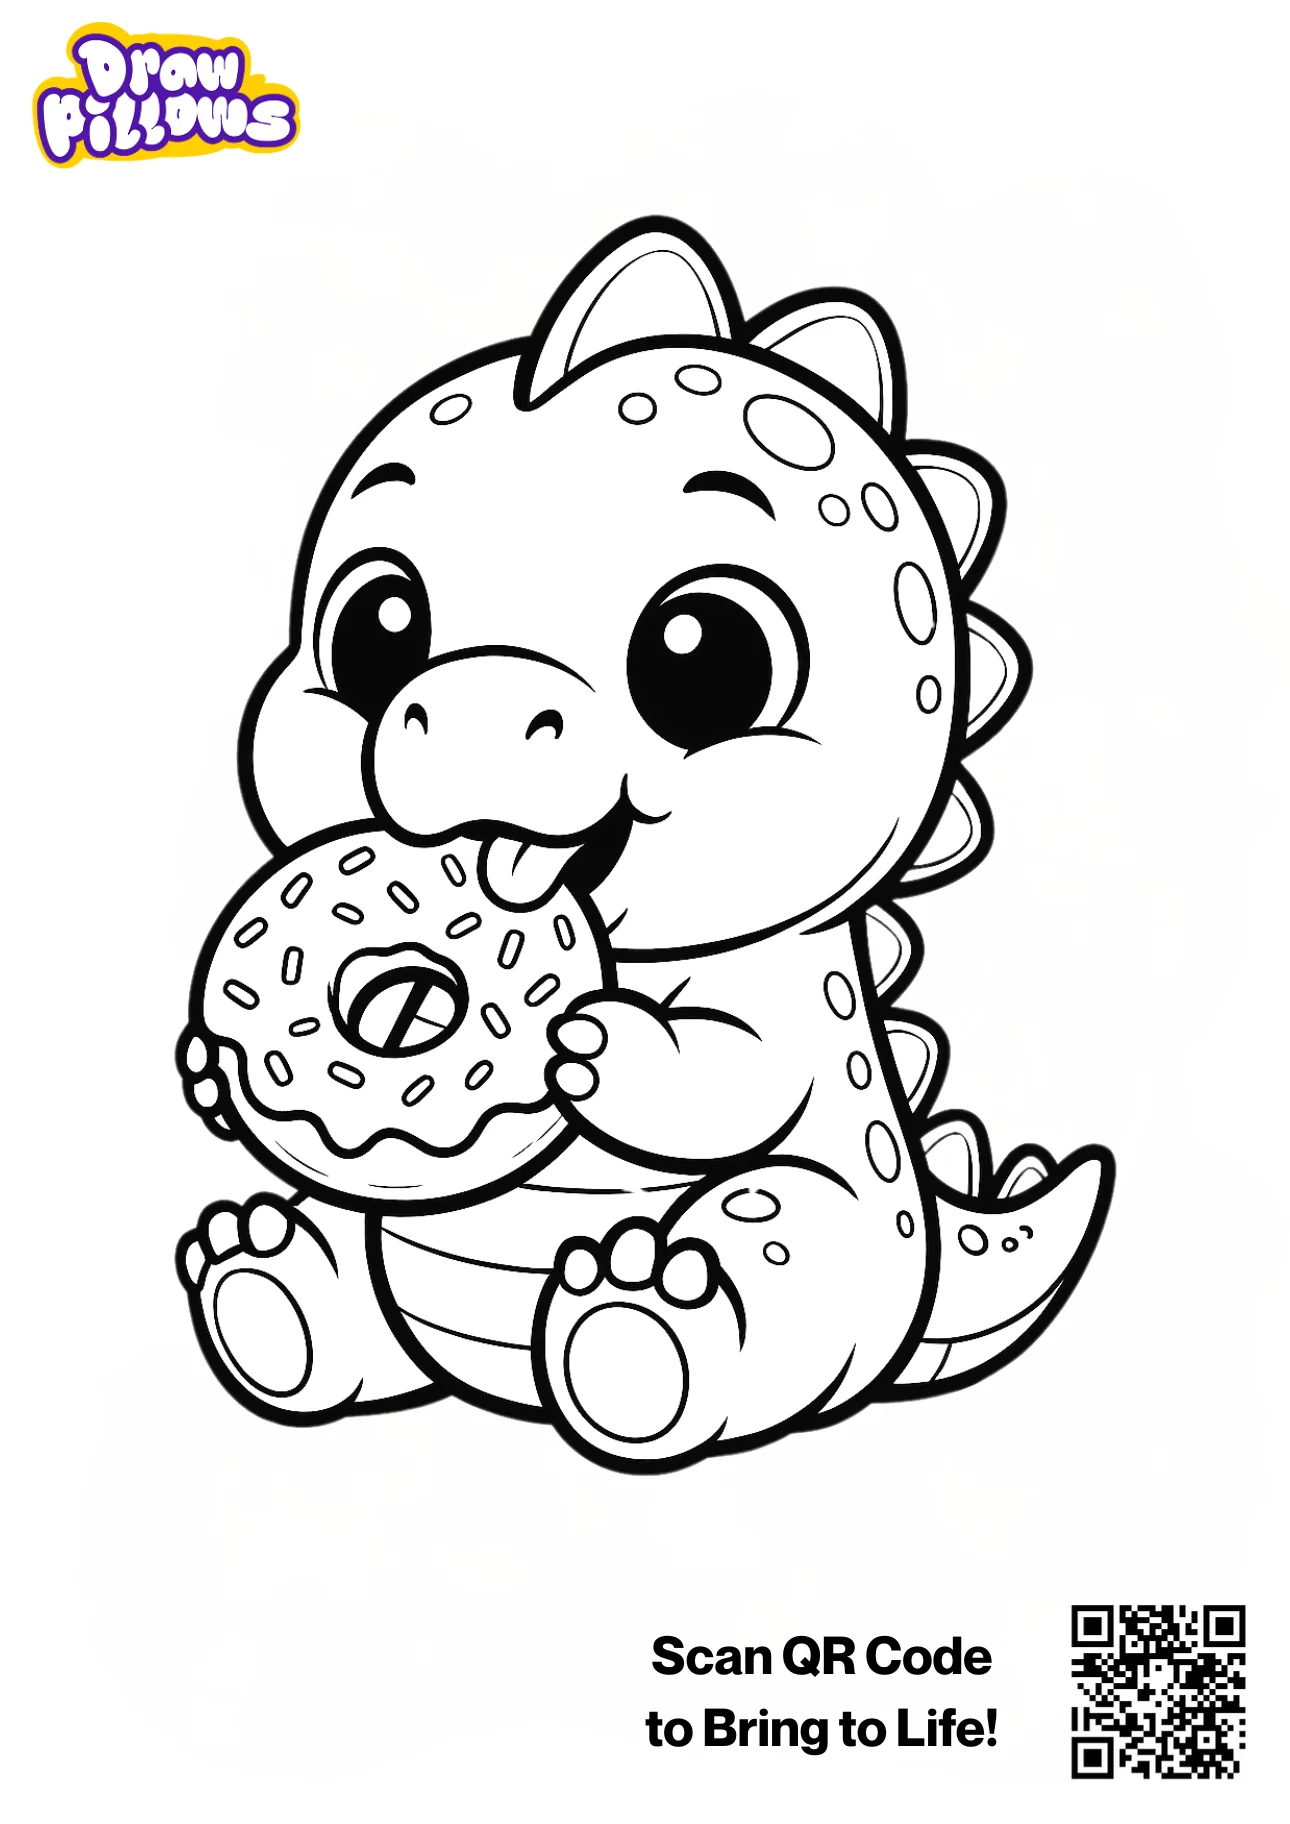
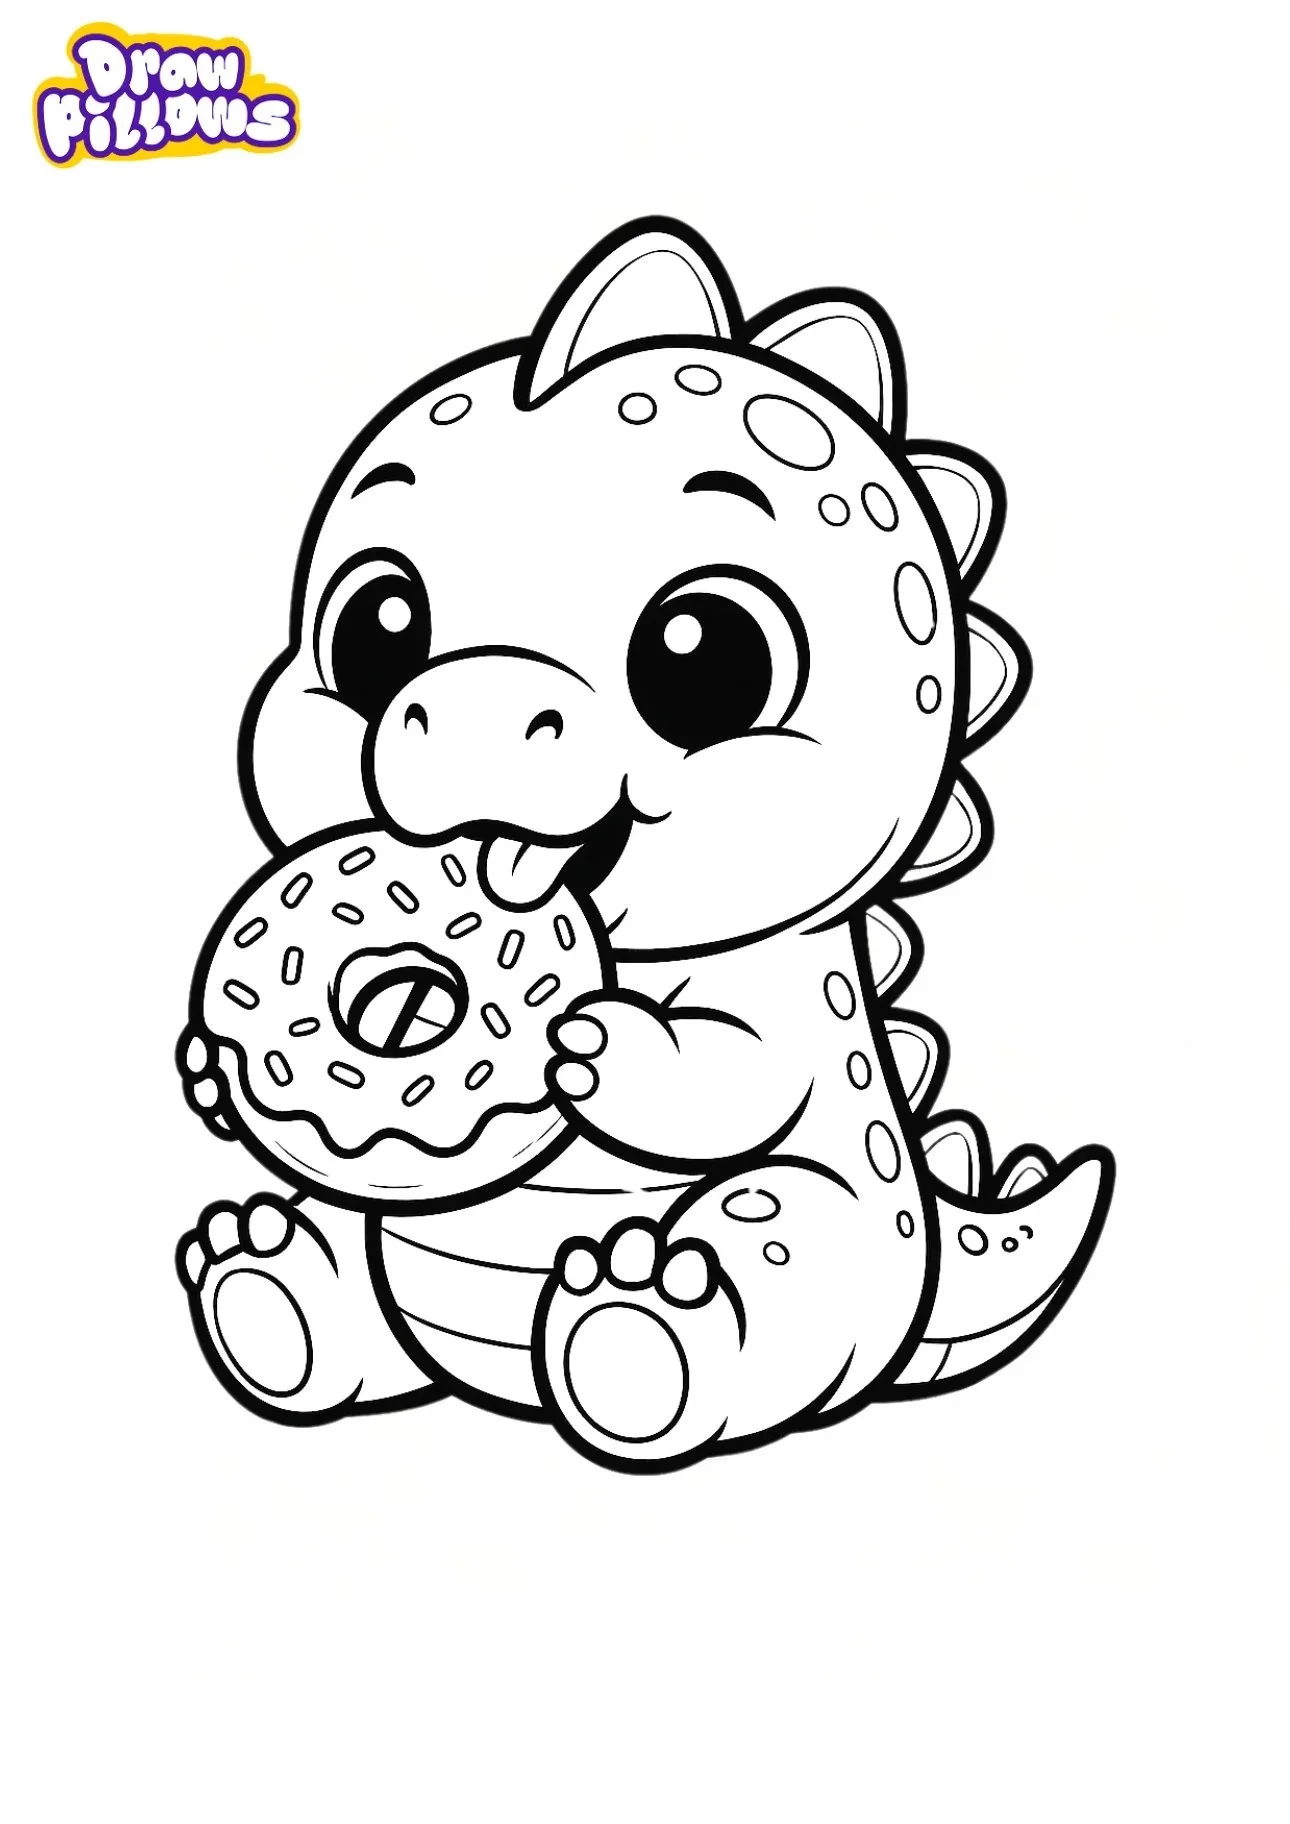
removed QR code from images

Changed region(s): [[0.4961, 0.875, 0.7752, 0.9688], [0.8062, 0.875, 0.9922, 1.0], [0.031, 0.0, 0.2481, 0.0938]]

diff --git a/index.html b/index.html
@@ -32,7 +32,7 @@
                 </ul>
             </nav>
 
-            <div class="logo"><a href="#"><img src="/Assets/images/Free_logo.png" alt=""></a></div>
+            <div class="logo"><a href="#"><img src="/Assets/images/Free_logo.webp" alt=""></a></div>
 
             <div class="search_section">
                 <div class="search-bar">
@@ -59,7 +59,7 @@
                     kids of all ages.</p>
                 <a href="#">View more</a>
             </div>
-            <div class="hero-image"><img src="/Assets/images/hero_img4.png" alt="hero_img" loading="lazy">
+            <div class="hero-image"><img src="/Assets/images/hero_img4.webp" alt="hero_img" loading="lazy">
             </div>
         </div>
 
@@ -162,32 +162,32 @@
         <img src="/Assets/images/turtle.svg" alt="turtle" class="turtle">
         <div class="category_row">
             <div class="category_content">
-                <img src="/Assets/images/heading-icon.png" alt="">
+                <img src="/Assets/images/heading-icon.webp" alt="">
                 <div class="heading">Browse by Categories</div>
                 <p>Lorem ipsum, dolor sit amet consectetur adipisicing elit. Minus, omnis?</p>
                 <div class="grid_box">
                     <div class="image_content">
-                        <div class="img_box"><img src="/Assets/images/Animals.jpeg" alt="Animals">
+                        <div class="img_box"><img src="/Assets/images/Animals.webp" alt="Animals">
                         </div>
                         <a href="#">Animals</a>
                     </div>
                     <div class="image_content">
-                        <div class="img_box"><img src="/Assets/images/Characters.jpeg" alt="Characters"></div>
+                        <div class="img_box"><img src="/Assets/images/Characters.webp" alt="Characters"></div>
                         <a href="#">Characters</a>
                     </div>
                     <div class="image_content">
-                        <div class="img_box"><img src="/Assets/images/Fairytale.jpeg" alt="Fairytale">
+                        <div class="img_box"><img src="/Assets/images/Fairytale.webp" alt="Fairytale">
                         </div><a href="#">Fairytale</a>
                     </div>
                     <div class="image_content">
-                        <div class="img_box"><img src="/Assets/images/Sports.jpeg" alt="Sports"></div><a
+                        <div class="img_box"><img src="/Assets/images/Sports.webp" alt="Sports"></div><a
                             href="#">Sports</a>
                     </div>
                     <div class="image_content">
-                        <div class="img_box"><img src="/Assets/images/Food.jpeg" alt="Food"></div><a href="#">Food</a>
+                        <div class="img_box"><img src="/Assets/images/Food.webp" alt="Food"></div><a href="#">Food</a>
                     </div>
                     <div class="image_content">
-                        <div class="img_box"><img src="/Assets/images/Nature.jpeg" alt="Nature"></div><a
+                        <div class="img_box"><img src="/Assets/images/Nature.webp" alt="Nature"></div><a
                             href="#">Nature</a>
                     </div>
                 </div>
@@ -203,13 +203,13 @@
         <img src="/Assets/images/leapord.svg" alt="leapord" class="leapord">
         <div class="feature_row">
             <div class="feature_content">
-                <img src="/Assets/images/heading-icon-08.png" alt="">
+                <img src="/Assets/images/heading-icon-08.webp" alt="">
                 <div class="heading">Featured Categories</div>
                 <p>Lorem ipsum, dolor sit amet consectetur adipisicing elit. Nam, vitae vero.</p>
                 <div class="fearture_grid_box">
                     <div class="image_content">
                         <div class="img_box">
-                            <img src="/Assets/images/category_img1.jpg" alt="Dinosaurs">
+                            <img src="/Assets/images/category_img1.webp" alt="Dinosaurs">
                             <div class="hover_overlay">
                                 <a href="#" class="hover_button">View All</a>
                             </div>
@@ -219,7 +219,7 @@
 
                     <div class="image_content">
                         <div class="img_box">
-                            <img src="/Assets/images/category_img5.jpg" alt="Pirates">
+                            <img src="/Assets/images/category_img5.webp" alt="Pirates">
                             <div class="hover_overlay">
                                 <a href="#" class="hover_button">View All</a>
                             </div>
@@ -229,7 +229,7 @@
 
                     <div class="image_content">
                         <div class="img_box">
-                            <img src="/Assets/images/category_img7.jpg" alt="Space &amp; Planets">
+                            <img src="/Assets/images/category_img7.webp" alt="Space &amp; Planets">
                             <div class="hover_overlay">
                                 <a href="#" class="hover_button">View All</a>
                             </div>
@@ -239,7 +239,7 @@
 
                     <div class="image_content">
                         <div class="img_box">
-                            <img src="/Assets/images/category_img2.jpg" alt="Superheroes">
+                            <img src="/Assets/images/category_img2.webp" alt="Superheroes">
                             <div class="hover_overlay">
                                 <a href="#" class="hover_button">View All</a>
                             </div>
@@ -249,7 +249,7 @@
 
                     <div class="image_content">
                         <div class="img_box">
-                            <img src="/Assets/images/category_img3.jpg" alt="Monsters">
+                            <img src="/Assets/images/category_img3.webp" alt="Monsters">
                             <div class="hover_overlay">
                                 <a href="#" class="hover_button">View All</a>
                             </div>
@@ -259,7 +259,7 @@
 
                     <div class="image_content">
                         <div class="img_box">
-                            <img src="/Assets/images/category_img4.jpg" alt="Cartoon">
+                            <img src="/Assets/images/category_img4.webp" alt="Cartoon">
                             <div class="hover_overlay">
                                 <a href="#" class="hover_button">View All</a>
                             </div>
@@ -269,7 +269,7 @@
 
                     <div class="image_content">
                         <div class="img_box">
-                            <img src="/Assets/images/category_img6.jpg" alt="Cars">
+                            <img src="/Assets/images/category_img6.webp" alt="Cars">
                             <div class="hover_overlay">
                                 <a href="#" class="hover_button">View All</a>
                             </div>
@@ -279,7 +279,7 @@
 
                     <div class="image_content">
                         <div class="img_box">
-                            <img src="/Assets/images/category_img8.jpg" alt="Robots">
+                            <img src="/Assets/images/category_img8.webp" alt="Robots">
                             <div class="hover_overlay">
                                 <a href="#" class="hover_button">View All</a>
                             </div>
@@ -299,7 +299,7 @@
         <img src="/Assets/images/leapord.svg" alt="leapord" class="leapord">
         <div class="coloring_pages_row">
             <div class="coloring_pages_content">
-                <img src="/Assets/images/heading-icon-08.png" alt="">
+                <img src="/Assets/images/heading-icon-08.webp" alt="">
                 <div class="heading">Free Coloring Pages</div>
                 <p>Lorem ipsum, dolor sit amet consectetur adipisicing elit. Nam, vitae vero.</p>
                 <div class="coloring_pages_grid_box">
@@ -499,7 +499,7 @@
         <img src="/Assets/images/cloud.svg" alt="cloud" class="cloud">
         <div class="draw_pillow_container">
             <div class="draw_pillow_content">
-                <h3 class="draw_pillow_subheading"><img src="/Assets/images/draw_pillow.png" alt="logo"></h3>
+                <h3 class="draw_pillow_subheading"><img src="/Assets/images/draw_pillow.webp" alt="logo"></h3>
                 <h1 class="draw_pillow_heading">They color it We turn it into something they can cuddle</h1>
                 <p>From coloring pages to a real pillow — it’s their imagination brought to life</p>
                 <div class="icon_box_container">
@@ -515,7 +515,7 @@
                 </div>
                 <a href="#">Create Free pillow</a>
             </div>
-            <div class="draw_pillow_image"><img src="/Assets/images/draw_pillow.jpg" alt="Description of the image"
+            <div class="draw_pillow_image"><img src="/Assets/images/draw_pillow.webp" alt="Description of the image"
                     loading="lazy"></div>
         </div>
         <img src="/Assets/images/cloud.svg" alt="cloud" class="cloud_after">
@@ -562,7 +562,7 @@
             </svg>
         </div>
         <div class="category_content">
-            <img src="/Assets/images/heading-icon-11.png" alt="">
+            <img src="/Assets/images/heading-icon-11.webp" alt="">
             <div class="heading">Knowledge Box</div>
             <p>Euismod elementum nisi quis eleifend quam adipiscing vitae proin sagittis. Convallis aenean et tortor.
             </p>
@@ -570,21 +570,21 @@
 
         <div class="blog_container">
             <div class="blog_box">
-                <img src="/Assets/images/Blog-1.jpg" alt="Blog-1" class="blog_img">
+                <img src="/Assets/images/Blog-1.webp" alt="Blog-1" class="blog_img">
                 <div class="heading">The Latest Trends In Kids’ For The Upcoming Summer Season</div>
                 <p>Maecenas sed ornare lacus, in placerat ante. In hac habitasse platea dictumst.</p>
                 <a href="#">Read More</a>
             </div>
 
             <div class="blog_box">
-                <img src="/Assets/images/Blog-2.jpg" alt="Blog-2" class="blog_img">
+                <img src="/Assets/images/Blog-2.webp" alt="Blog-2" class="blog_img">
                 <div class="heading">The Latest Trends In Kids’ For The Upcoming Summer Season</div>
                 <p>Maecenas sed ornare lacus, in placerat ante. In hac habitasse platea dictumst.</p>
                 <a href="#">Read More</a>
             </div>
 
             <div class="blog_box">
-                <img src="/Assets/images/Blog-3.jpg" alt="Blog-3" class="blog_img">
+                <img src="/Assets/images/Blog-3.webp" alt="Blog-3" class="blog_img">
                 <div class="heading">The Latest Trends In Kids’ For The Upcoming Summer Season</div>
                 <p>Maecenas sed ornare lacus, in placerat ante. In hac habitasse platea dictumst.</p>
                 <a href="#">Read More</a>
@@ -615,7 +615,7 @@
                     <div class="slider_slide active" style="display: none; opacity: 0; visibility: hidden;">
                         <div class="customer_box">
                             <div class="customer_image">
-                                <img src="/Assets/images/h1-testimonial-img-1.jpg" alt="testimonial">
+                                <img src="/Assets/images/h1-testimonial-img-1.webp" alt="testimonial">
                                 <div class="customer_heading">
                                     <h4>Jessica Lisa</h4>
                                     <span>FASHION DESIGNER</span>
@@ -643,7 +643,7 @@
                     <div class="slider_slide" style="display: none; opacity: 0; visibility: hidden;">
                         <div class="customer_box">
                             <div class="customer_image">
-                                <img src="/Assets/images/h1-testimonial-img-1.jpg" alt="testimonial">
+                                <img src="/Assets/images/h1-testimonial-img-1.webp" alt="testimonial">
                                 <div class="customer_heading">
                                     <h4>Michael john</h4>
                                     <span>PARENT</span>
@@ -667,7 +667,7 @@
                     <div class="slider_slide" style="display: block; opacity: 1; visibility: visible;">
                         <div class="customer_box">
                             <div class="customer_image">
-                                <img src="/Assets/images/h1-testimonial-img-1.jpg" alt="testimonial">
+                                <img src="/Assets/images/h1-testimonial-img-1.webp" alt="testimonial">
                                 <div class="customer_heading">
                                     <h4>Sarah Will</h4>
                                     <span>ART TEACHER</span>
@@ -691,7 +691,7 @@
                     <div class="slider_slide" style="display: none; opacity: 0; visibility: hidden;">
                         <div class="customer_box">
                             <div class="customer_image">
-                                <img src="/Assets/images/h1-testimonial-img-1.jpg" alt="testimonial">
+                                <img src="/Assets/images/h1-testimonial-img-1.webp" alt="testimonial">
                                 <div class="customer_heading">
                                     <h4>David Chen</h4>
                                     <span>GIFT BUYER</span>
@@ -731,7 +731,7 @@
                 <!-- Column 1 -->
                 <div class="footer__col footer__col--logo">
                     <div class="footer__logo">
-                        <img src="/Assets/images/Free_logo.png" alt="Company Logo">
+                        <img src="/Assets/images/Free_logo.webp" alt="Company Logo">
                     </div>
                     <div class="footer__social">
                         <a href="#" class="footer__social-icon"><i class="fab fa-facebook"></i></a>

diff --git a/style.css b/style.css
@@ -181,7 +181,7 @@ header .pre-header {
 /* LOGO */
 .logo a img {
     width: 200px;
-    transform: scale(1.2);
+    transform: scale(1);
 }
 
 /* SEARCH SECTION */
@@ -261,7 +261,7 @@ header .pre-header {
 
 .hero-section .bottom_right_corner {
     height: 275px;
-    bottom: -1;
+    bottom: -1px;
     right: 0;
     position: absolute;
 }
@@ -1092,7 +1092,7 @@ header .pre-header {
     align-items: center;
     flex-direction: row-reverse;
     height: 100%;
-    background-image: url(/Assets/images/purple-bg.jpg);
+    background-image: url(/Assets/images/purple-bg.webp);
     max-width: 1200px;
     background-size: cover;
     background-repeat: no-repeat;
